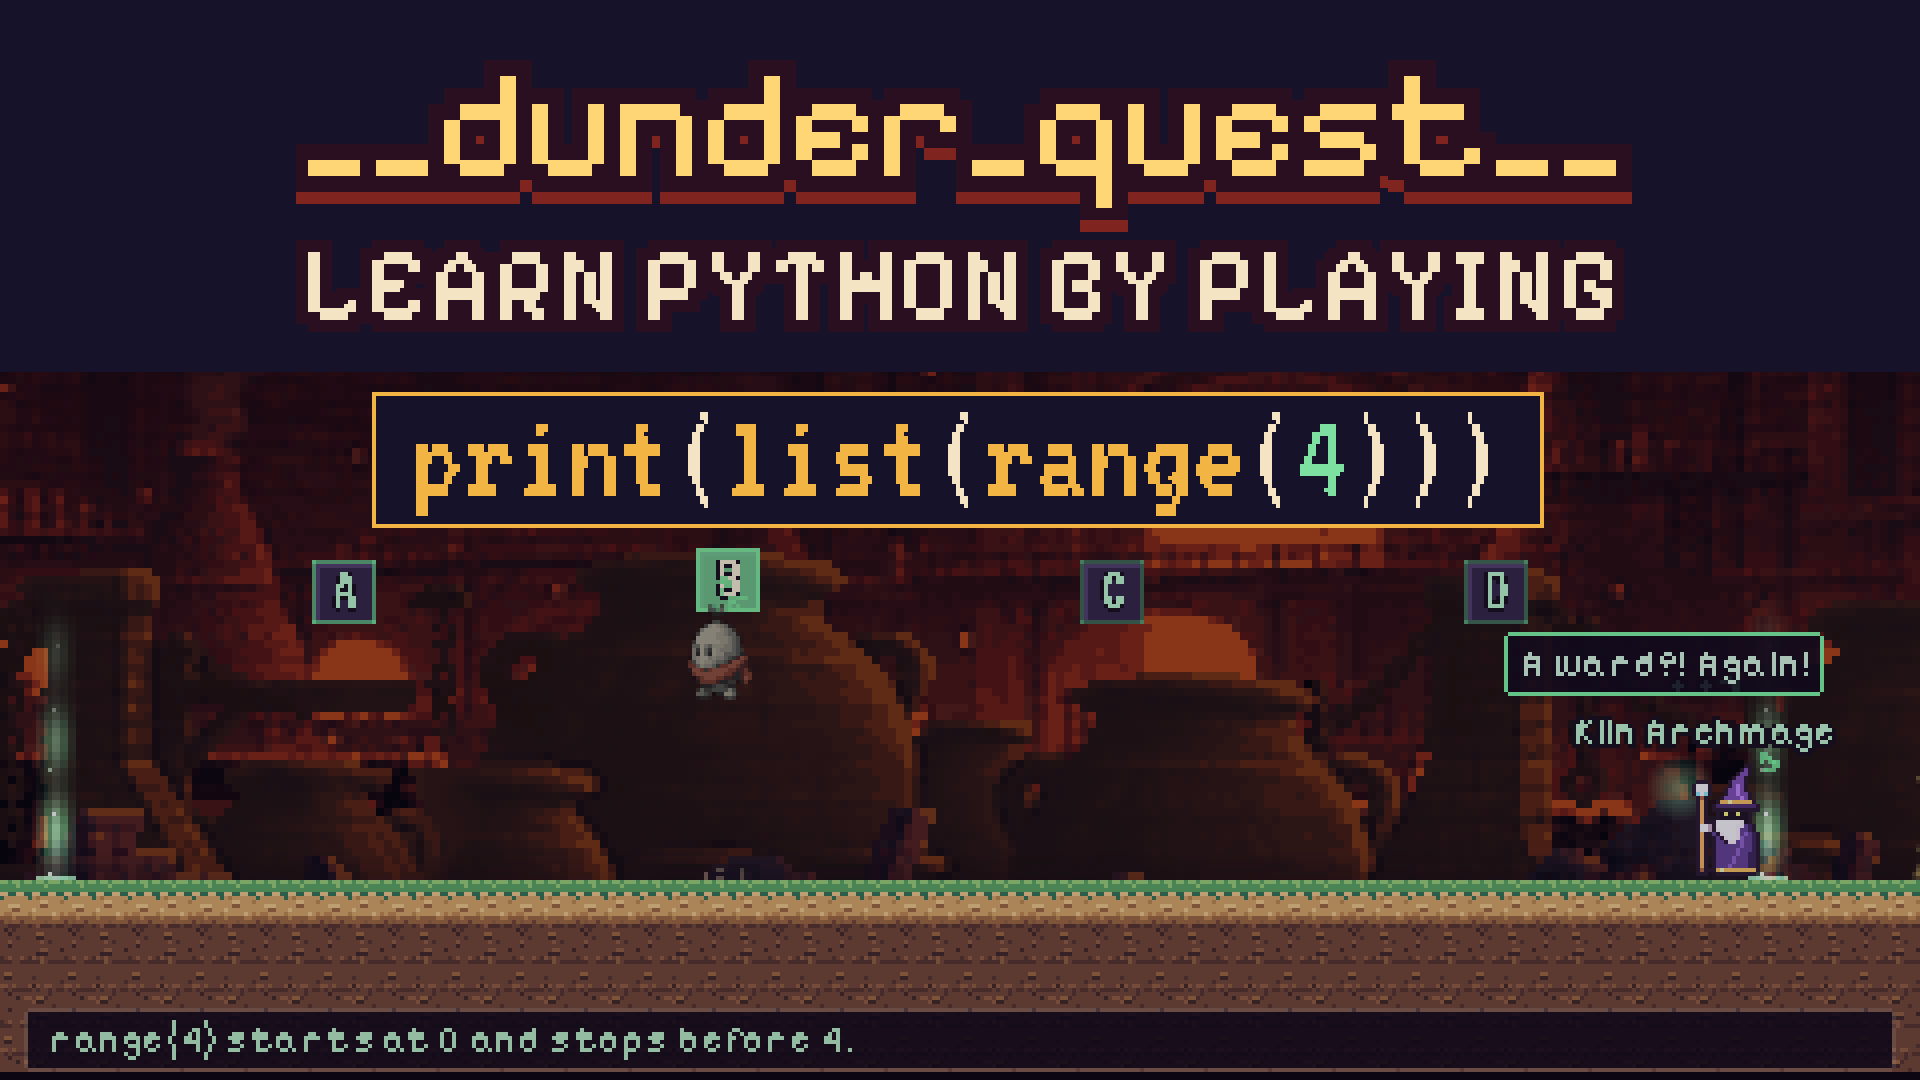
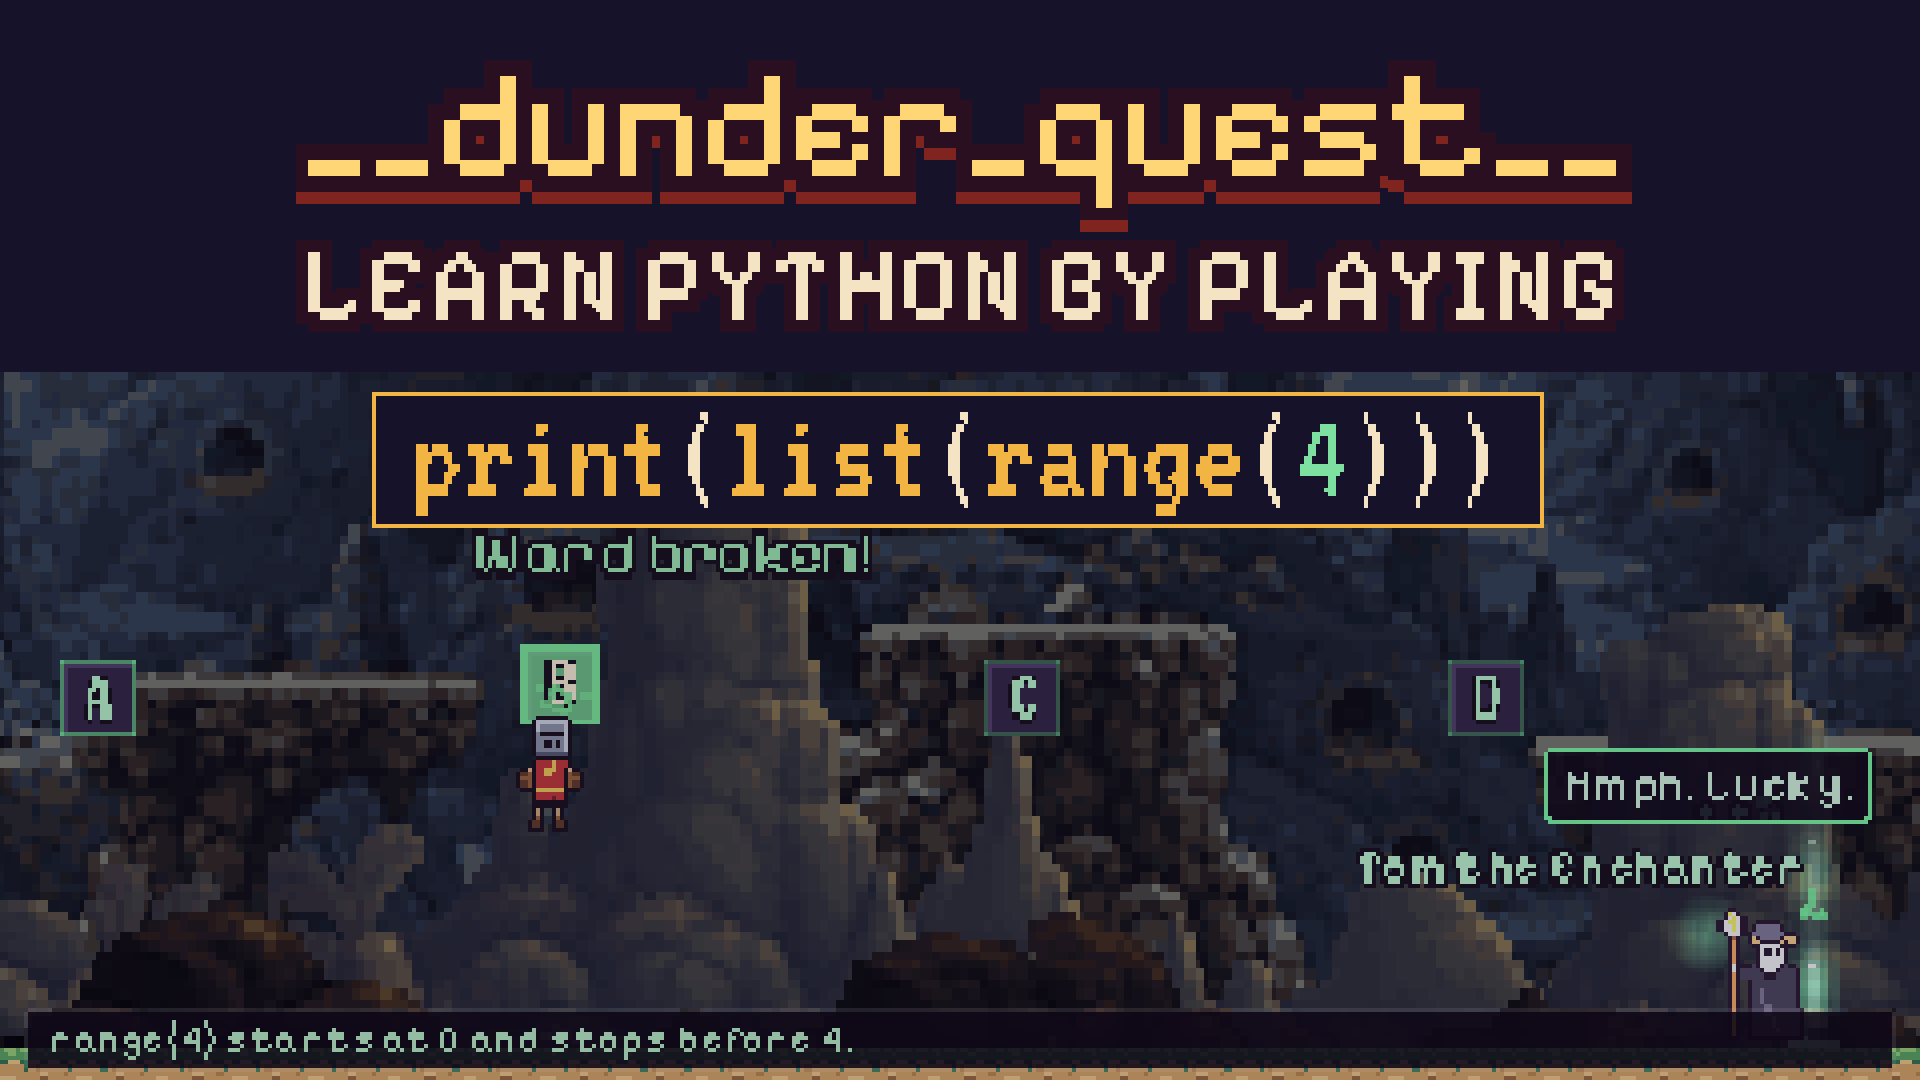
Recut the trailer for the Holy Grail quest, with a cold open
The trailer now opens cold: coconut clops in the dark, the squire walks
into a beam of light, and the giant foot stomps down with the title on
the first hit of a new brass-band march cue (120 BPM). The gameplay was
recaptured and every shot's source frame moved to the new run by matching
its MARK log against the old one. 72 s, -13.6 LUFS.

diff --git a/tools/make_trailer.py b/tools/make_trailer.py
@@ -487,14 +487,14 @@ def stage_slam(name: str, at: float):
 
 
 # Capture frames for each moment, read off the run's MARK log and contact sheets.
-BRIDGE = 9290        # Bridge of Peril: span(5) bumped at 9356, planks out by 9396
-LIFT = 5300          # Cave of the Bunny: the lift rides up on range()
-GATE = 6935          # Ministry of Walks: the heat dial bumped, the gate swings
-STAIR = 11545        # Castle Aargh: the comprehension stair builds
+BRIDGE = 9552        # Bridge of Peril: span(5) bumped at 9618, planks out by 9658
+LIFT = 5377          # Cave of the Bunny: the lift rides up on range()
+GATE = 7145          # Ministry of Walks: the heat dial bumped, the gate swings
+STAIR = 11987        # Castle Aargh: the comprehension stair builds
 PLANKS = 500         # Shrubbery Wood: the slice lays the planks
 SCROLL_A = 352       # "Counting Backwards" lore card, fully open
-SCROLL_B = 11392     # "Words In, Words Out" lore card
-ARENA = 5560         # Tom the Enchanter seals the arena
+SCROLL_B = 11834     # "Words In, Words Out" lore card
+ARENA = 5637         # Tom the Enchanter seals the arena
 
 
 def edit() -> list[Shot]:
@@ -510,10 +510,10 @@ def edit() -> list[Shot]:
         fx=[flash_fx(SLAM, 6, 1.0), shake_fx(SLAM, 5, 0.4)])
     add(bar(1), bar(2), src=64, label="amber run")
     add(bar(2), bar(3), draw=terminal_card([">>> import adventure"], bar(2) + BEAT, 22), label="import")
-    add(bar(3), bar(4), src=2262, label="cinder run", fx=[flash_fx(bar(3))])
+    add(bar(3), bar(4), src=2295, label="cinder run", fx=[flash_fx(bar(3))])
 
     # Build: one stage per bar, each named as it lands.
-    for n, (src, name) in enumerate([(4340, "Cave of the Bunny"), (6850, "Ministry of Walks"), (9005, "Bridge of Peril")]):
+    for n, (src, name) in enumerate([(4417, "Cave of the Bunny"), (7060, "Ministry of Walks"), (9267, "Bridge of Peril")]):
         add(bar(4 + n), bar(5 + n), src=src, label=name,
             fx=[flash_fx(bar(4 + n), 3, 0.6), stage_slam(name, bar(4 + n))])
     add(bar(7), bar(8), draw=lambda t: parallax(t, "cave", 0.78), label="hook card",
@@ -524,7 +524,7 @@ def edit() -> list[Shot]:
     # Main: the gadgets, each one a line of Python made solid.
     add(bar(8), bar(10), src=BRIDGE, label="bridge",
         fx=[flash_fx(bar(8)), chip("bridge = span(5)", bar(8) + BEAT, bar(10) - BEAT / 2, mono=True, size=16),
-            shake_fx(bar(8) + (9356 - BRIDGE) / FPS, 2)])
+            shake_fx(bar(8) + (9618 - BRIDGE) / FPS, 2)])
     add(bar(10), bar(11), src=LIFT, label="lift",
         fx=[chip("for i in range(4): lift.rise()", bar(10) + BEAT / 2, bar(11) - BEAT / 4, mono=True, size=16)])
     add(bar(11), bar(12), src=GATE, label="gate",
@@ -534,8 +534,8 @@ def edit() -> list[Shot]:
     add(bar(13), bar(14), src=PLANKS, label="planks",
         fx=[chip("bridge = planks[1:11]", bar(13) + BEAT / 2, bar(14) - BEAT / 4, mono=True, size=16)])
     # Two bars of quick cuts on every beat, punching in on every other one.
-    quick = [(230, 1, (240, 150)), (2300, 2, (220, 190)), (4400, 1, (240, 150)), (7210, 2, (230, 185)),
-             (9110, 1, (240, 150)), (11120, 2, (230, 170)), (11260, 1, (240, 150)), (6640, 2, (230, 190))]
+    quick = [(230, 1, (240, 150)), (2333, 2, (220, 190)), (4477, 1, (240, 150)), (7420, 2, (230, 185)),
+             (9372, 1, (240, 150)), (11562, 2, (230, 170)), (11702, 1, (240, 150)), (6850, 2, (230, 190))]
     for k, (src, zoom, focus) in enumerate(quick):
         add(beat(56 + k), beat(57 + k), src=src, zoom=zoom, focus=focus, label=f"quick {k}",
             fx=[flash_fx(beat(56 + k), 2, 0.35)])
@@ -550,14 +550,14 @@ def edit() -> list[Shot]:
         label="duel prompt")
 
     # Finale: a duel a bar, each a different lesson, every one landing on a beat.
-    duels = [(1000, "lists"), (3322, "dictionaries"), (5683, "loops & range"), (7770, "booleans"),
-             (9876, "functions"), (12075, "comprehensions")]
+    duels = [(1000, "lists"), (3371, "dictionaries"), (5760, "loops & range"), (7980, "booleans"),
+             (10138, "functions"), (12517, "comprehensions")]
     for k, (src, topic) in enumerate(duels):
         add(bar(20 + k), bar(21 + k), src=src, label=f"duel {topic}",
             fx=[flash_fx(bar(20 + k), 4 if k == 0 else 3, 0.9 if k == 0 else 0.5),
                 chip(topic, bar(20 + k) + BEAT / 2, bar(21 + k) - BEAT / 4, color=MINT)])
-    add(bar(26), bar(27), src=13262, label="banish", fx=[flash_fx(bar(26), 3, 0.5)])
-    add(bar(27), bar(28), src=13327, label="waygate")
+    add(bar(26), bar(27), src=13758, label="banish", fx=[flash_fx(bar(26), 3, 0.5)])
+    add(bar(27), bar(28), src=13823, label="waygate")
 
     # The slam, then the title.
     add(bar(28), LENGTH, draw=end_card, label="end card", fx=[flash_fx(bar(28), 8, 1.0)])
@@ -582,14 +582,14 @@ CUES = [
     ("typing", bar(19) + BEAT / 2, 0.7),
     ("riser", bar(20) - 3.5, 0.6),
     ("impact", bar(20), 1.0),
-    ("wrong", bar(25) + (12117 - 12075) / FPS, 0.6),
+    ("wrong", bar(25) + (12559 - 12517) / FPS, 0.6),
     ("impact", bar(28), 1.0),
 ]
 
 
 def thumbnail(path: Path) -> None:
     """A 1920x1080 YouTube thumbnail: a duel mid-answer under a big headline."""
-    img = capture(5732).copy()
+    img = capture(5809).copy()
     ImageDraw.Draw(img).rectangle((0, 0, W, 92), fill=NIGHT)
     img.paste(dim(img.crop((0, 92, W, H)), 0.25), (0, 92))
     draw_text(img, (W // 2, 8), "__dunder_quest__", font(PIXEL, 39), TITLE_GOLD,

diff --git a/trailer/README.md b/trailer/README.md
@@ -5,7 +5,7 @@ A 72 s motion-graphics trailer for **__dunder_quest__**, cut to the beat of a ge
 - [PLAN.md](PLAN.md) has the research: the pitch, trailer craft rules, beat sheet, visual style, deliverable specs and sources.
 - [../GAME_IMPROVEMENTS.md](../GAME_IMPROVEMENTS.md) lists the game issues spotted while making it.
 
-> **Needs a recapture.** The current master was cut before the Holy Grail rework, so it shows the old stage names, the pebble and the kiln. Rebuild it with the steps below once the new world is final; `tools/make_trailer.py` already uses the new art and copy.
+> **Upload pending.** The new master is built locally in `trailer/out/`, but the site still embeds the old YouTube video (`TRAILER_ID` in `site/build.py`). Upload the new one, then update `TRAILER_ID`.
 
 ## Rebuild
 
@@ -55,7 +55,7 @@ trailer/
 
 ## v1 status (2026-10-23)
 
-Done: the full cut, the 1080p and 4K masters and the thumbnail. Measured −13.9 LUFS integrated and −0.9 dB peak, 62.000 s, pixel grid checked on 4K crops.
+Done: the Holy Grail recut (2026-10-23): a fresh capture, the cold open, `cue_march`, the 1080p and 4K masters and the thumbnail. Measured −13.6 LUFS integrated and −1.0 dB peak, 72.000 s. The shot frames were moved to the new capture by matching its MARK log against the old one, and checked on a stills sheet.
 
 ## Backlog
 

diff --git a/trailer/PLAN.md b/trailer/PLAN.md
@@ -4,7 +4,7 @@
 
 Everything needed to cut a motion-graphics trailer for **__dunder_quest__**, a pixel-art platformer where a squire quests for the Grail and learns Python by bumping blocks and dueling Monty Python-style guardians.
 
-> **Holy Grail rework (2026-10-23):** the stages, cast and art were rethemed after the current master was cut. The 4K master still shows the old pebble-and-kiln world, so it needs a fresh capture (see README.md) before it matches the game. The beat sheet below is written for the new world.
+> **Holy Grail rework (2026-10-23):** the stages, cast and art were rethemed and the trailer recut from a fresh capture, with a cold open (coconut clops in the dark, the giant foot stomping down the title) and a brass-band march cue. The beat sheet below is the original plan; README.md has what was built.
 
 ---
 
